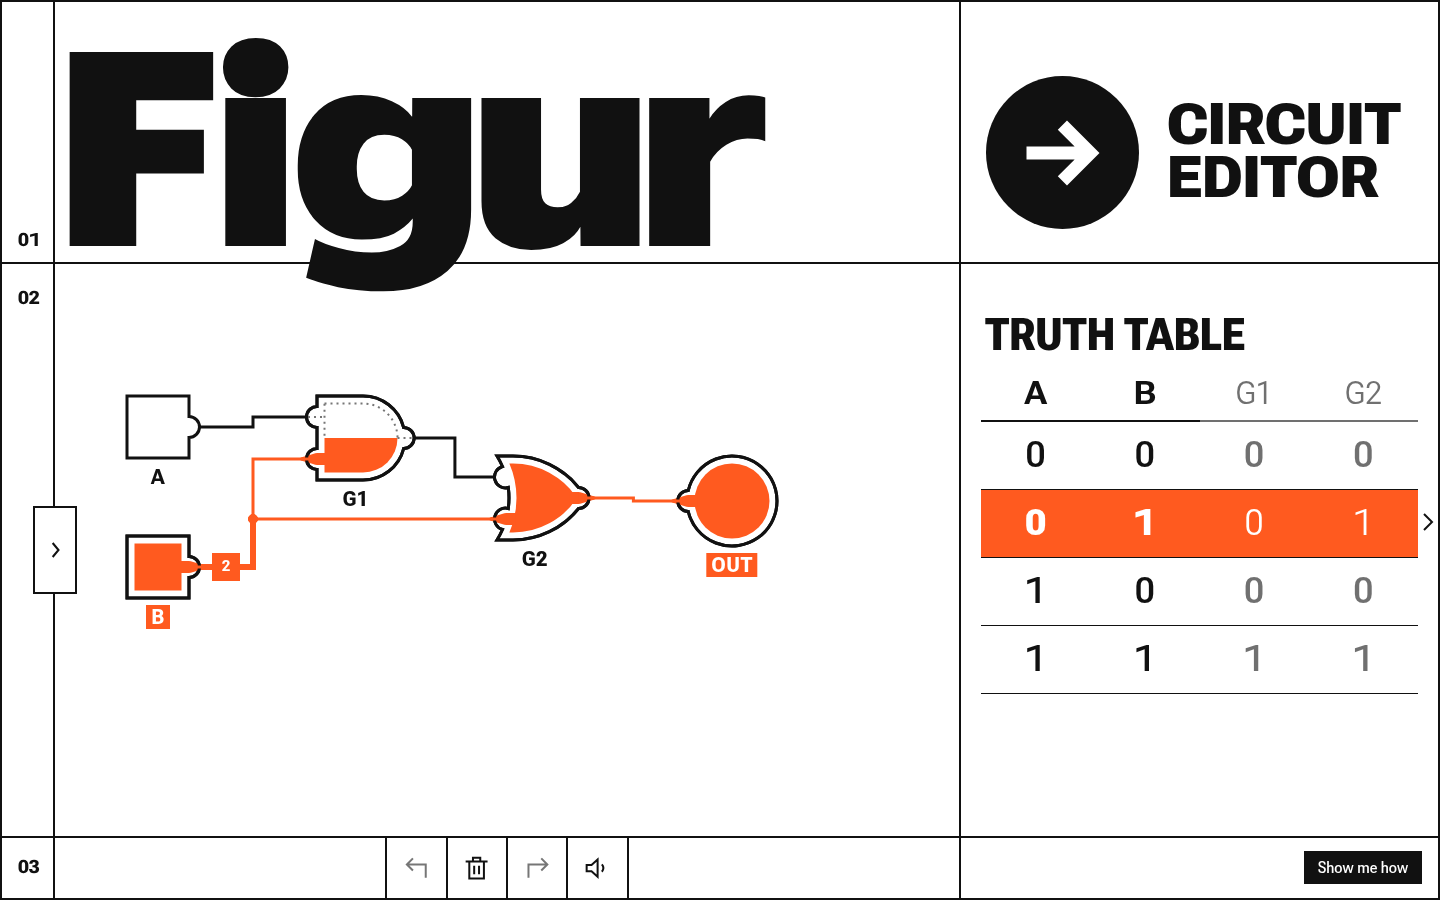
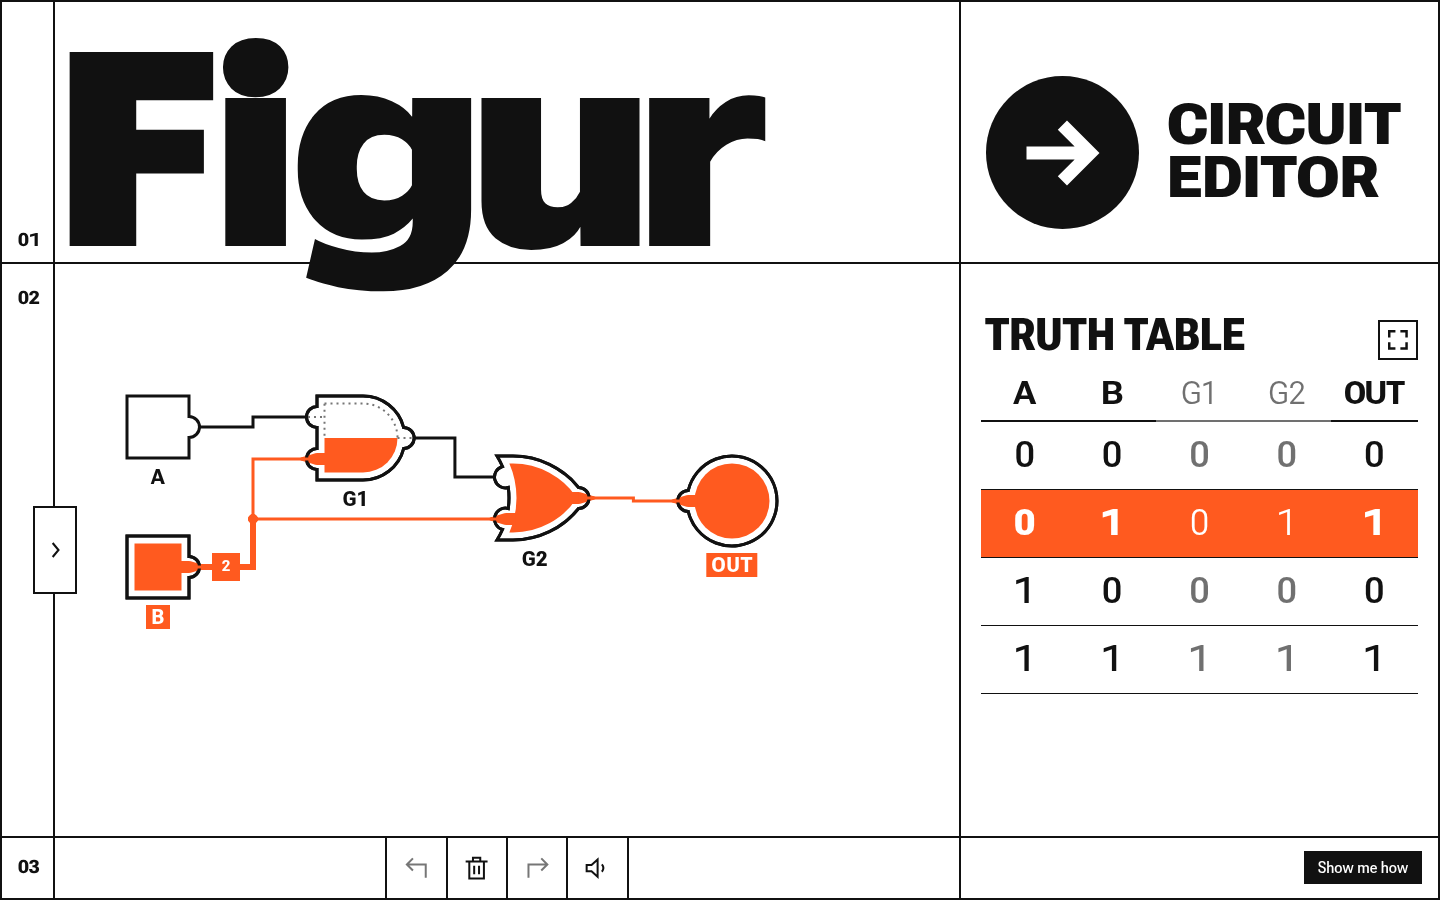
Truth table: full screen toggle; up to 6 columns fit the panel
Square outline button (aria-pressed, Esc exits) puts the .truth cell in browser full screen; the measure effect re-runs on toggle so the height cap follows. Table width is now max(6, n)/6 of the box so the OUT column no longer scrolls off with two gates.

Claude-Session: https://claude.ai/code/session_011T4uWMBpKmtZUx7tBGrUYR

diff --git a/src/Truth.jsx b/src/Truth.jsx
@@ -32,7 +32,10 @@ function Truth({ circuit, view, fig, setSwitches }) {
   const classic = ins.length === 2 && outs.length === 1; // the fitted A / B / OUT header glyphs apply only here
 
   // Windowing: fixed row height measured from the first rendered row.
-  const box = useRef(null);
+  const box = useRef(null), cell = useRef(null);
+  const [full, setFull] = useState(false); // Fullscreen API on the .truth cell; Esc is the browser's, we only mirror it
+  useEffect(() => { const f = () => setFull(document.fullscreenElement === cell.current); document.addEventListener('fullscreenchange', f); return () => document.removeEventListener('fullscreenchange', f); }, []);
+  const toggleFull = () => { if (document.fullscreenElement) document.exitFullscreen(); else cell.current?.requestFullscreen?.(); };
   const [rowH, setRowH] = useState(40), [top, setTop] = useState(0), [boxH, setBoxH] = useState(400);
   const [more, setMore] = useState({ up: false, down: false, left: false, right: false }); // palette's scroll cues: only where rows / columns remain
   const cues = (el) => {
@@ -57,7 +60,7 @@ function Truth({ circuit, view, fig, setSwitches }) {
     cues(el);
     // Tony: the table snapped back while scrolling. This effect ran after EVERY render, and a scroll re-renders (setTop):
     // clearing maxHeight each time shrank/regrew the box and clamped scrollTop. Re-measure only when the table or the frame changes.
-  }, [shape, fig, rowH]); // eslint-disable-line react-hooks/exhaustive-deps
+  }, [shape, fig, rowH, full]); // eslint-disable-line react-hooks/exhaustive-deps
   const first = Math.max(0, Math.floor(top / rowH) - 2), last = Math.min(rows.length, first + Math.ceil(boxH / rowH) + 5);
   // Keep the live row in view when the switches change.
   useEffect(() => {
@@ -83,8 +86,11 @@ function Truth({ circuit, view, fig, setSwitches }) {
     </aside>
   );
   return (
-    <aside className="cell c-side r2 truth" aria-label="Truth table">
+    <aside className="cell c-side r2 truth" aria-label="Truth table" ref={cell}>
       <h2 className="label">Truth table</h2>
+      <button type="button" className="tt-full" aria-pressed={full} aria-label={full ? 'Exit full screen' : 'Full screen truth table'} onClick={toggleFull}>
+        <svg aria-hidden="true" viewBox="0 0 16 16"><path d={full ? 'M6 1v5H1M10 1v5h5M6 15v-5H1M10 15v-5h5' : 'M1 6V1h5M10 1h5v5M15 10v5h-5M6 15H1v-5'} /></svg>
+      </button>
       <div className="tt-wrap">
       <div className={`tt ${classic ? 'classic' : ''} ${gates.length ? 'gates' : ''} ${more.down ? 'fd' : ''}`} ref={box} onScroll={(e) => { setTop(e.currentTarget.scrollTop); cues(e.currentTarget); }}>
         <table style={{ '--n': heads.length }} role="grid" aria-label="Truth table rows; arrow keys set the switches">

diff --git a/src/theme.css b/src/theme.css
@@ -328,7 +328,7 @@ body { background: var(--paper); color: var(--ink); font-family: var(--font); -w
 .truth .pal-more.left { left: auto; right: 100%; }
 .truth .pal-more.left svg, .truth .pal-more.right svg { width: calc(8 * var(--u)); height: calc(16 * var(--u)); }
 .truth .pal-more.down { left: 0; right: 0; width: auto; top: auto; bottom: 0; }   /* centred bottom cue over the fade, as in the sidebar */
-.truth .tt table { width: calc(max(4, var(--n)) * 25%); } /* never squeeze: a column keeps its n = 3 width (1/4 of the box); past 4 columns the table scrolls sideways */
+.truth .tt table { width: calc(max(6, var(--n)) * 100% / 6); } /* up to 6 columns share the box (outputs never hide); past 6 a column keeps 1/6 and the table scrolls sideways */
 /* The header line box (0.71em) is exactly cap height, so round caps (O, C) overshoot it; inside the scroller that overshoot
    was clipped at the box top. 0.2em of headroom inside the box, taken back from the margin above: nothing moves. */
 .truth thead th { padding-top: 0.2em; }
@@ -571,3 +571,11 @@ body { background: var(--paper); color: var(--ink); font-family: var(--font); -w
 .bundle-tag { position: absolute; width: 28px; height: 28px; display: grid; place-items: center; background: var(--ink); color: var(--paper);
   font: 700 15px/1 var(--font); font-variant-numeric: tabular-nums; pointer-events: none; }
 .bundle-tag.on { background: var(--one); }
+
+/* Truth-table full screen toggle: square black-outline button top right of the cell; the fullscreen cell gets a paper ground */
+.truth { position: relative; }
+.truth .tt-full { position: absolute; top: calc(56 * var(--u)); right: calc(20 * var(--u)); width: calc(40 * var(--u)); height: calc(40 * var(--u)); min-width: 24px; min-height: 24px; padding: 0; border: var(--rule) solid var(--ink); border-radius: 0; background: var(--paper); color: var(--ink); cursor: pointer; display: grid; place-items: center; }
+.truth .tt-full svg { width: 55%; height: 55%; fill: none; stroke: currentColor; stroke-width: 2; }
+.truth .tt-full:hover { background: var(--hover); }
+.truth .tt-full:focus-visible { outline: 3px solid var(--ink); outline-offset: 2px; }
+.truth:fullscreen { background: var(--paper); transform: none; padding-inline: calc(40 * var(--u)); }
